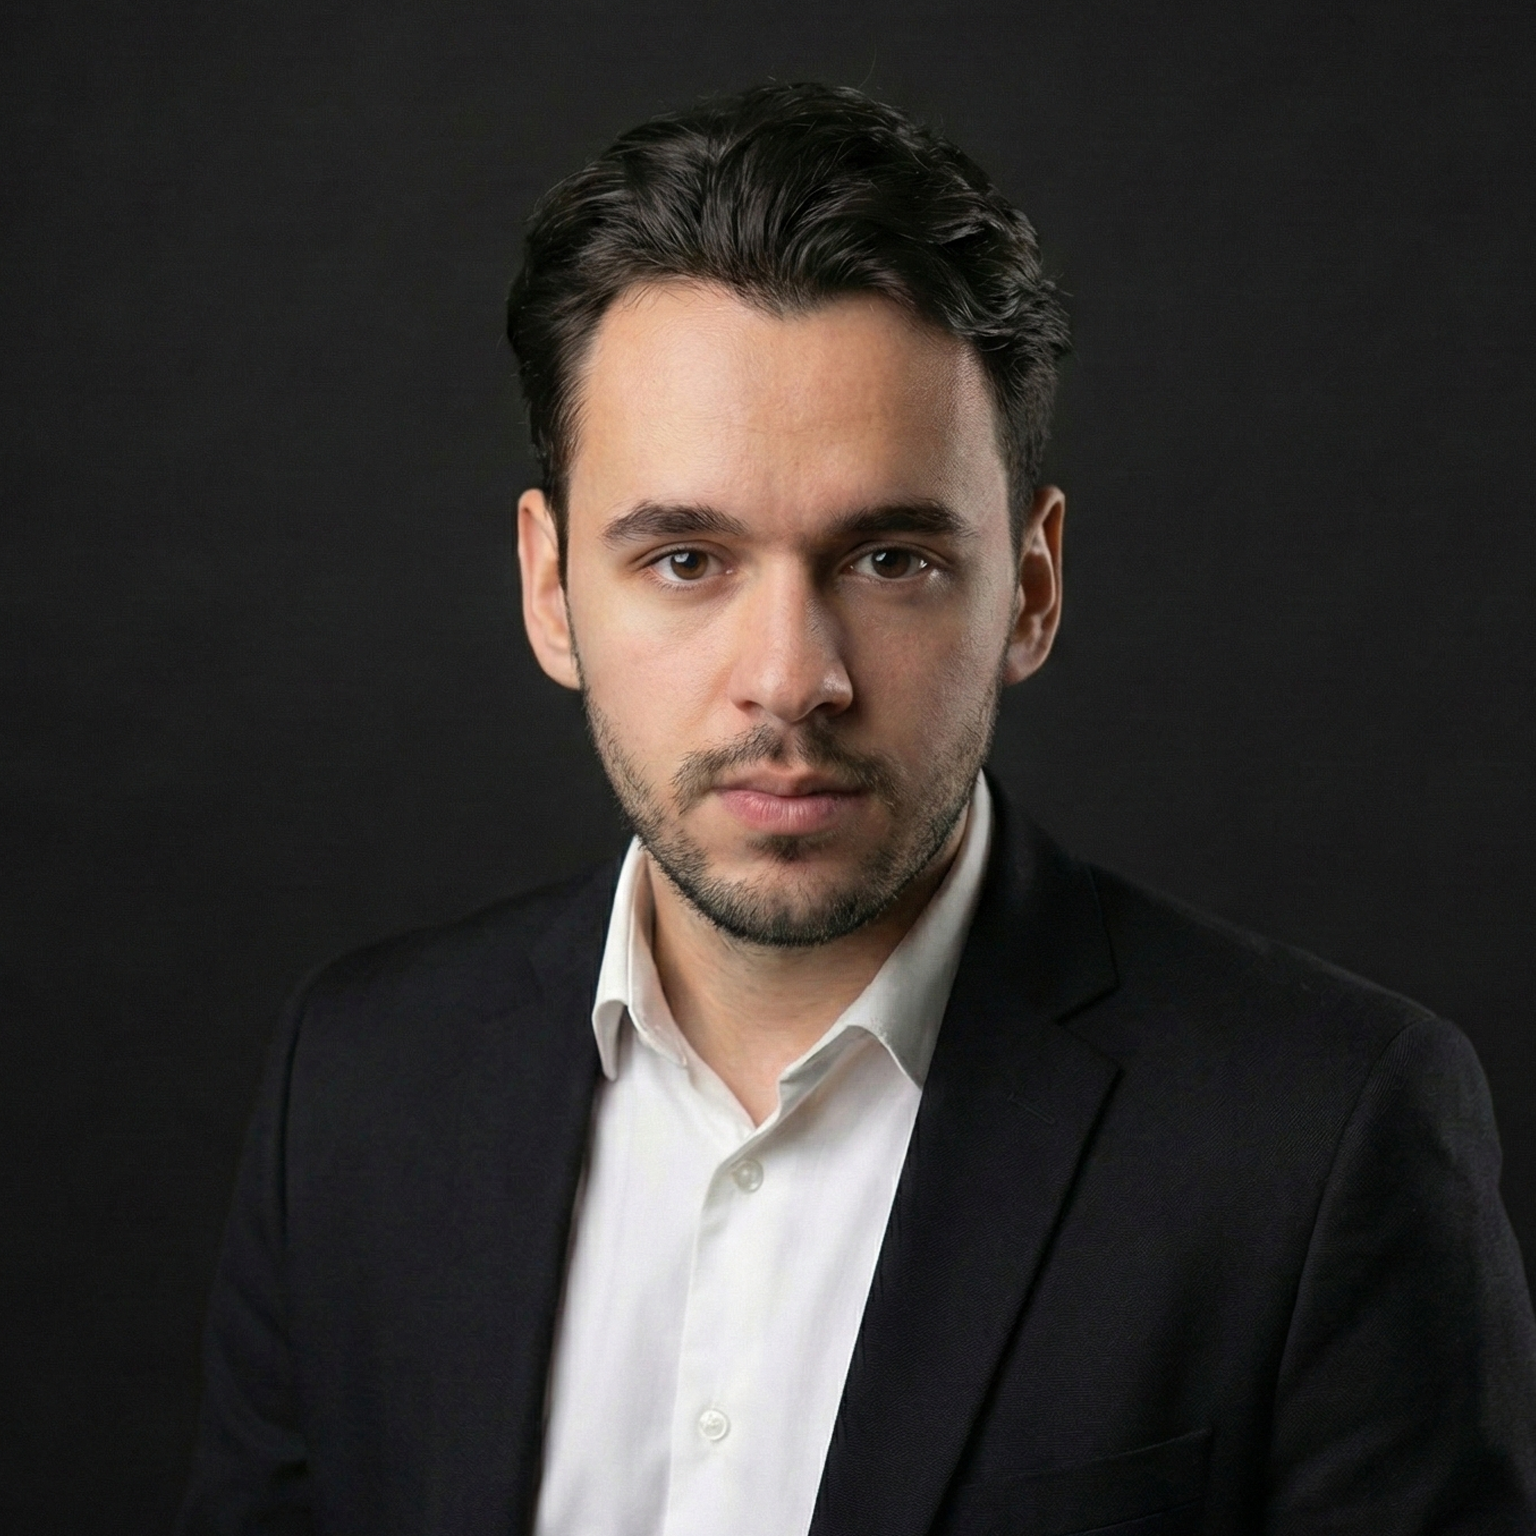
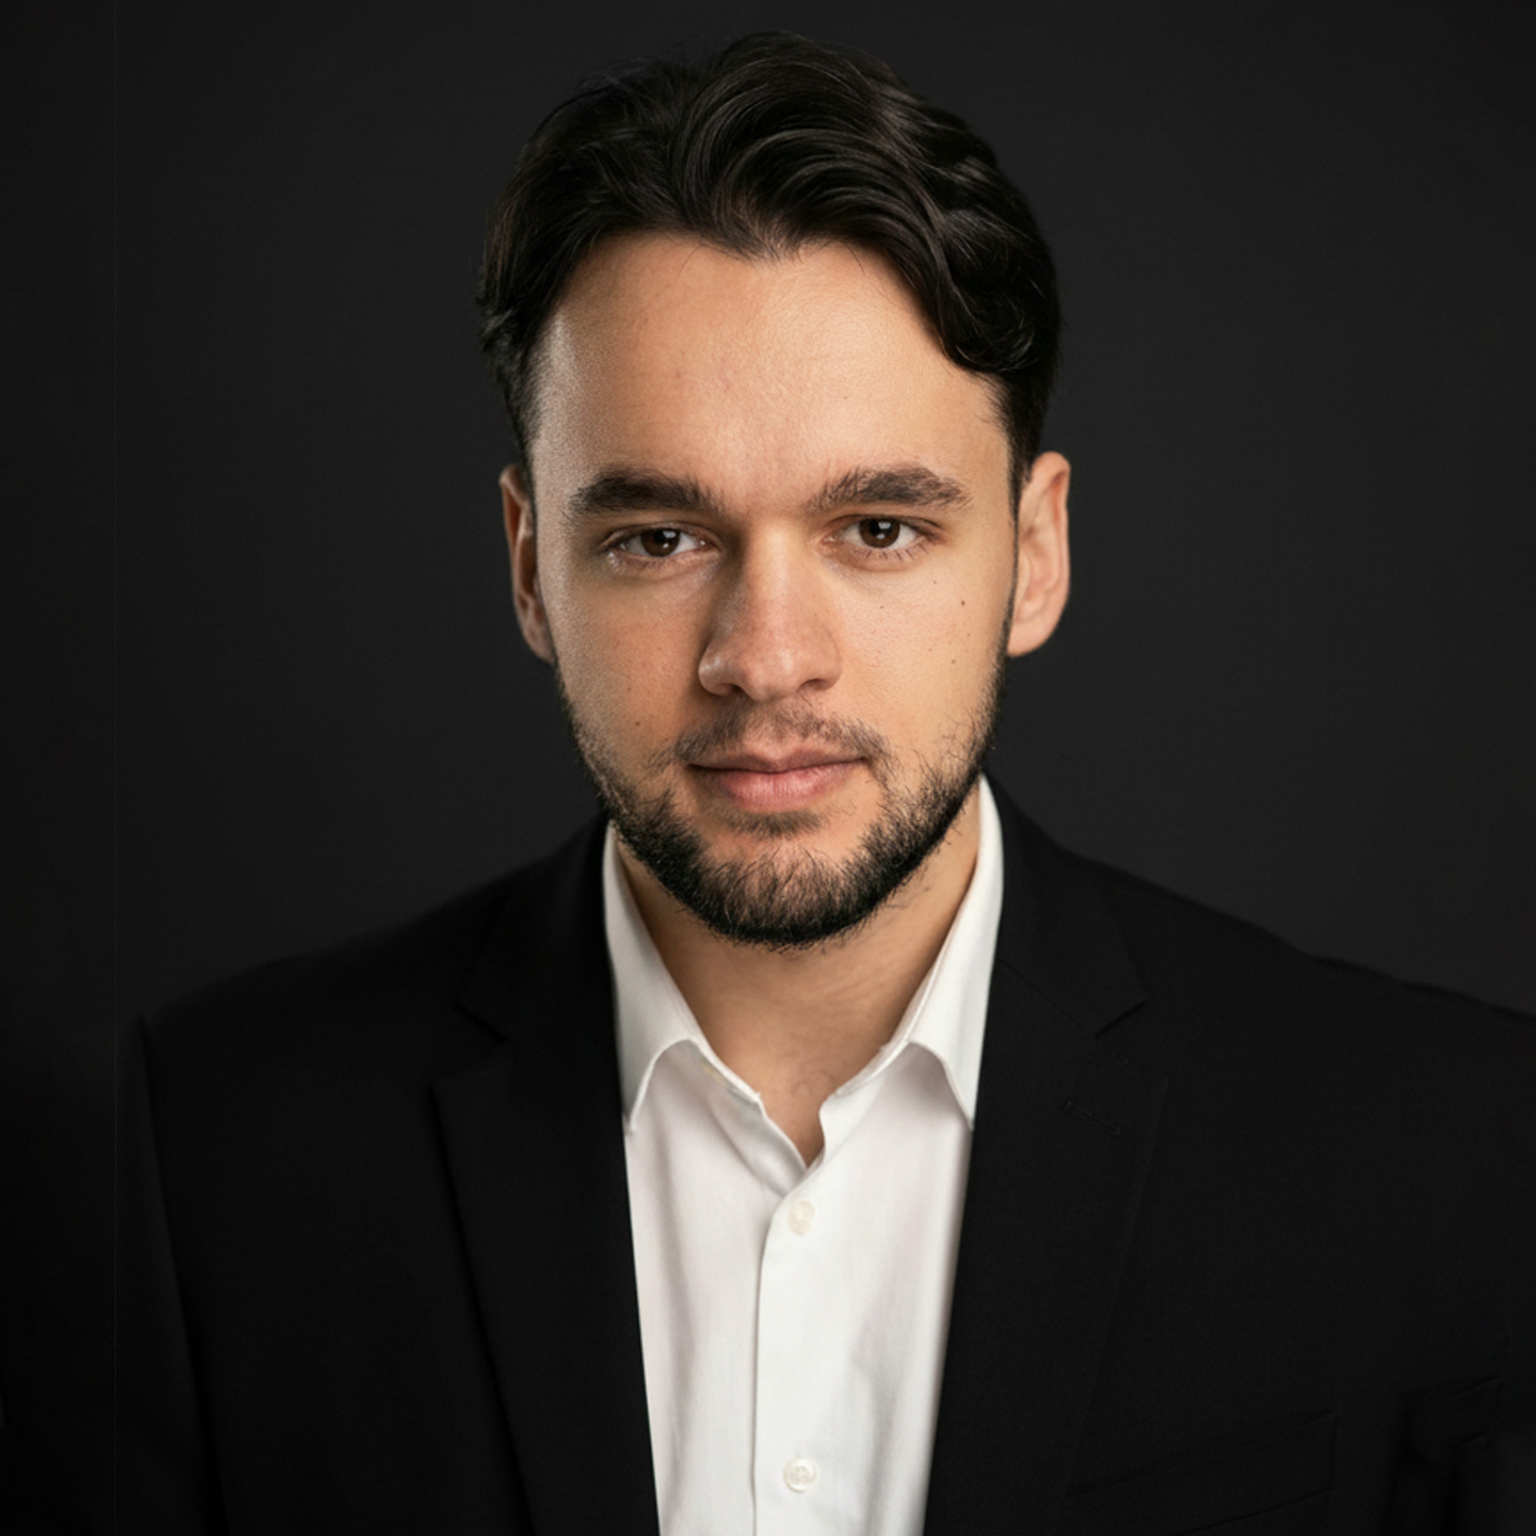
steva slika

Changed region(s): [[0.1875, 0.0312, 0.7188, 1.0], [0.9375, 0.6562, 1.0, 0.9062], [0.125, 0.9375, 0.1562, 0.9688]]

diff --git a/o-nama.html b/o-nama.html
@@ -89,7 +89,7 @@
 
             <div class="team-member animate-fade-up delay-4">
                 <div class="member-image">
-                    <img src="resources/employees/steva1x1smile.png" alt="Steva">
+                    <img src="resources/employees/steva1x1.png" alt="Steva">
                 </div>
                 <h3 class="member-name">Steva</h3>
                 <p class="member-role">Copywriter</p>
